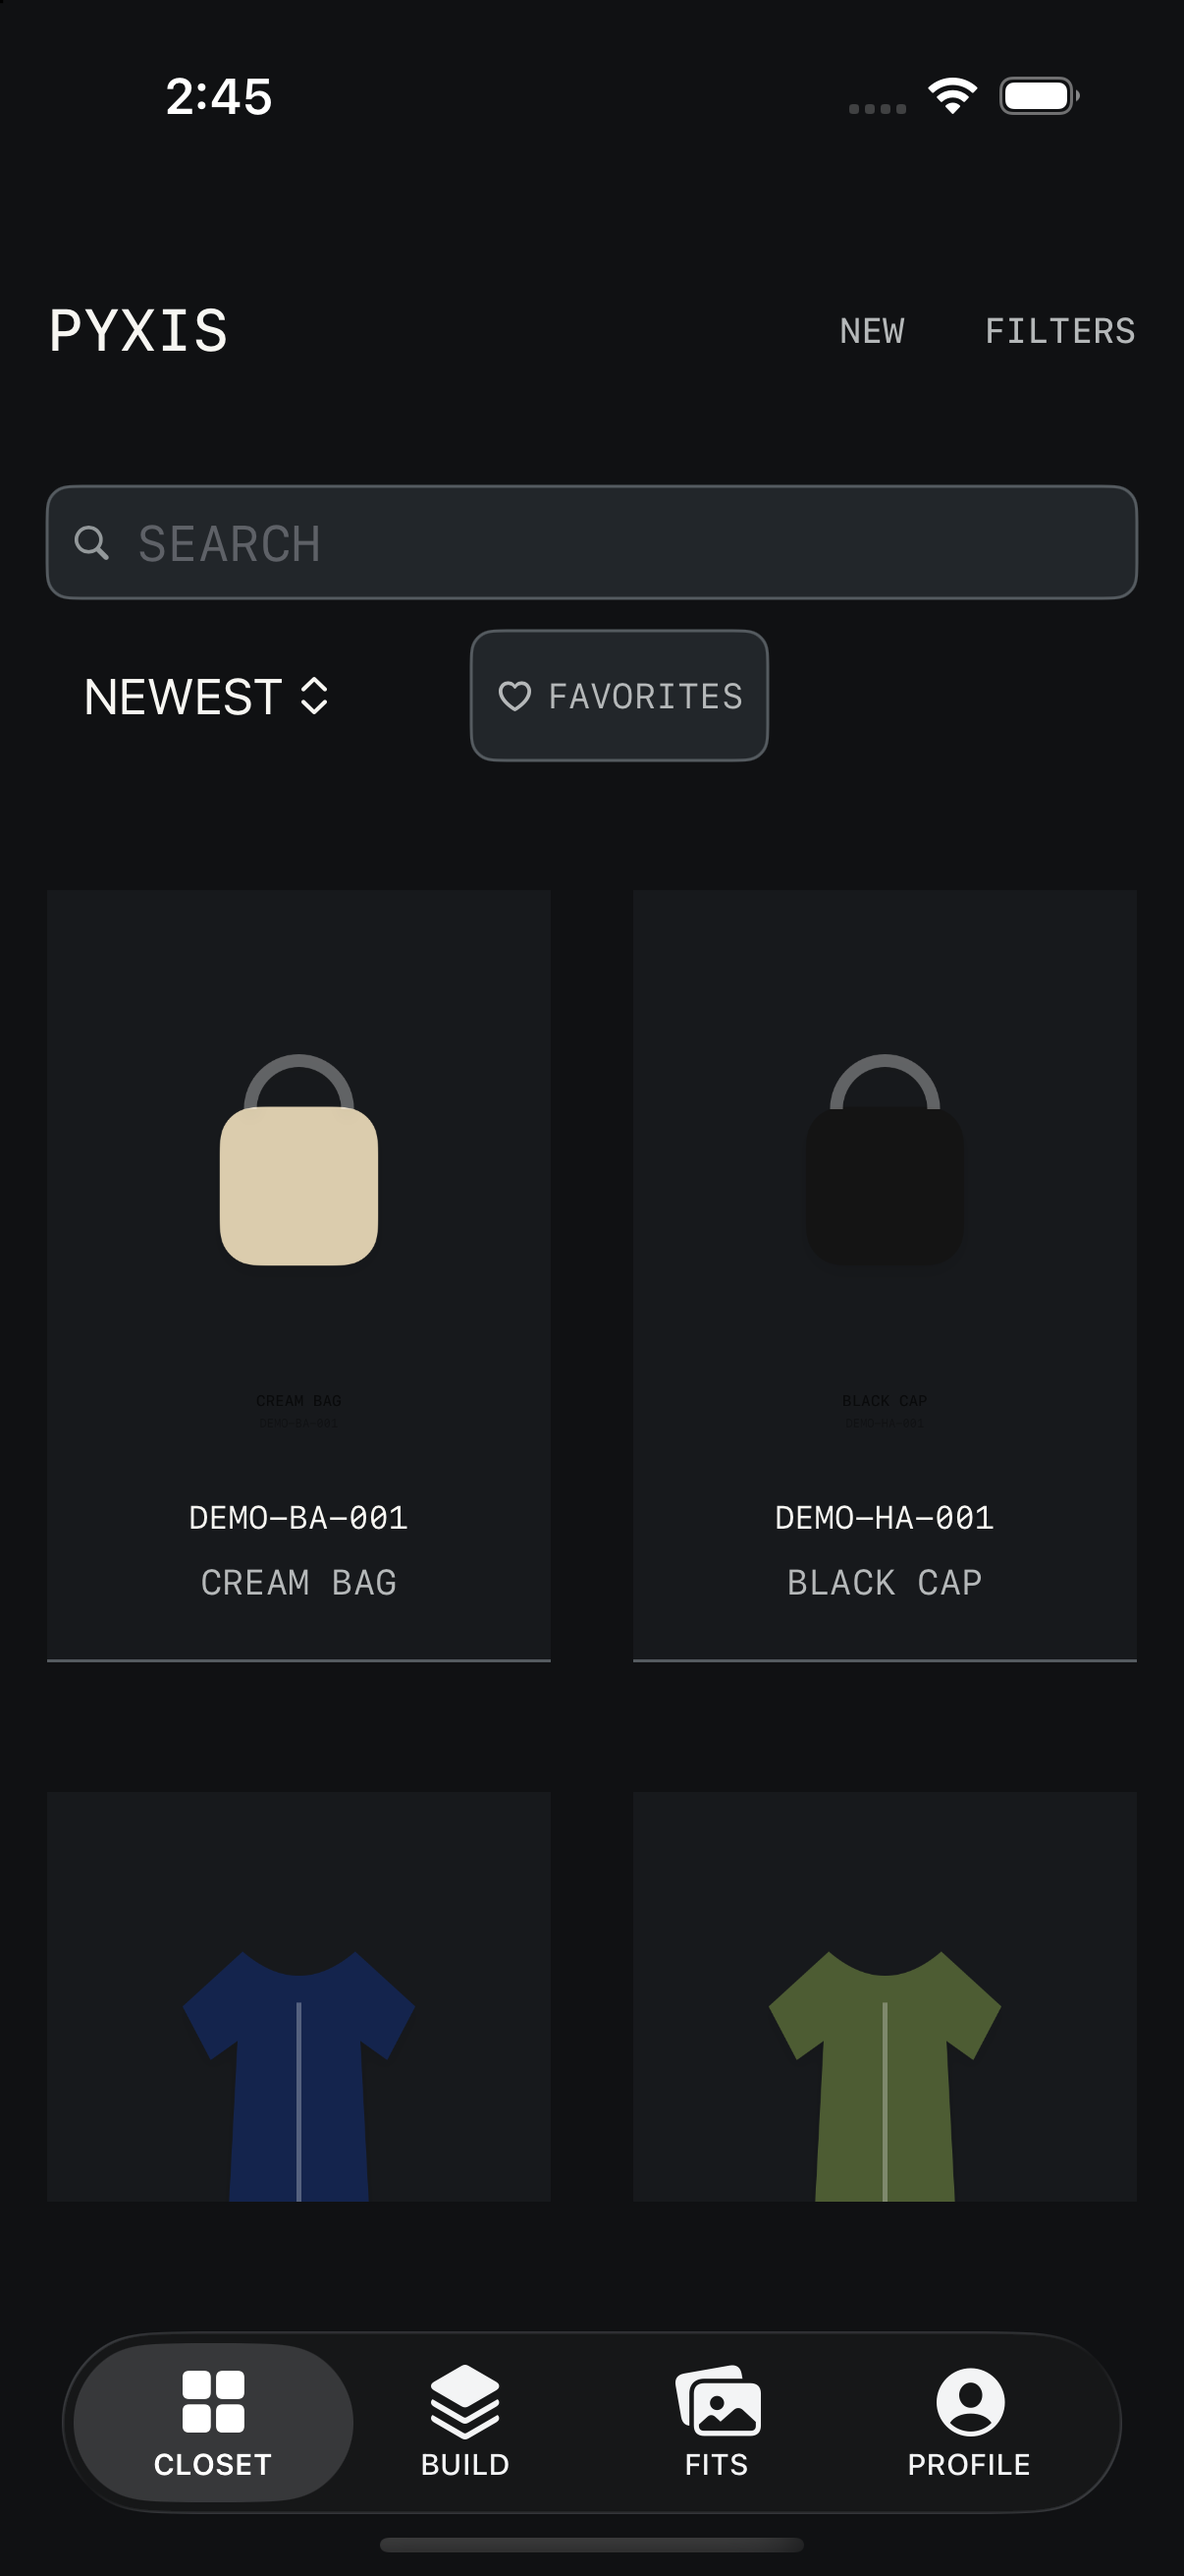
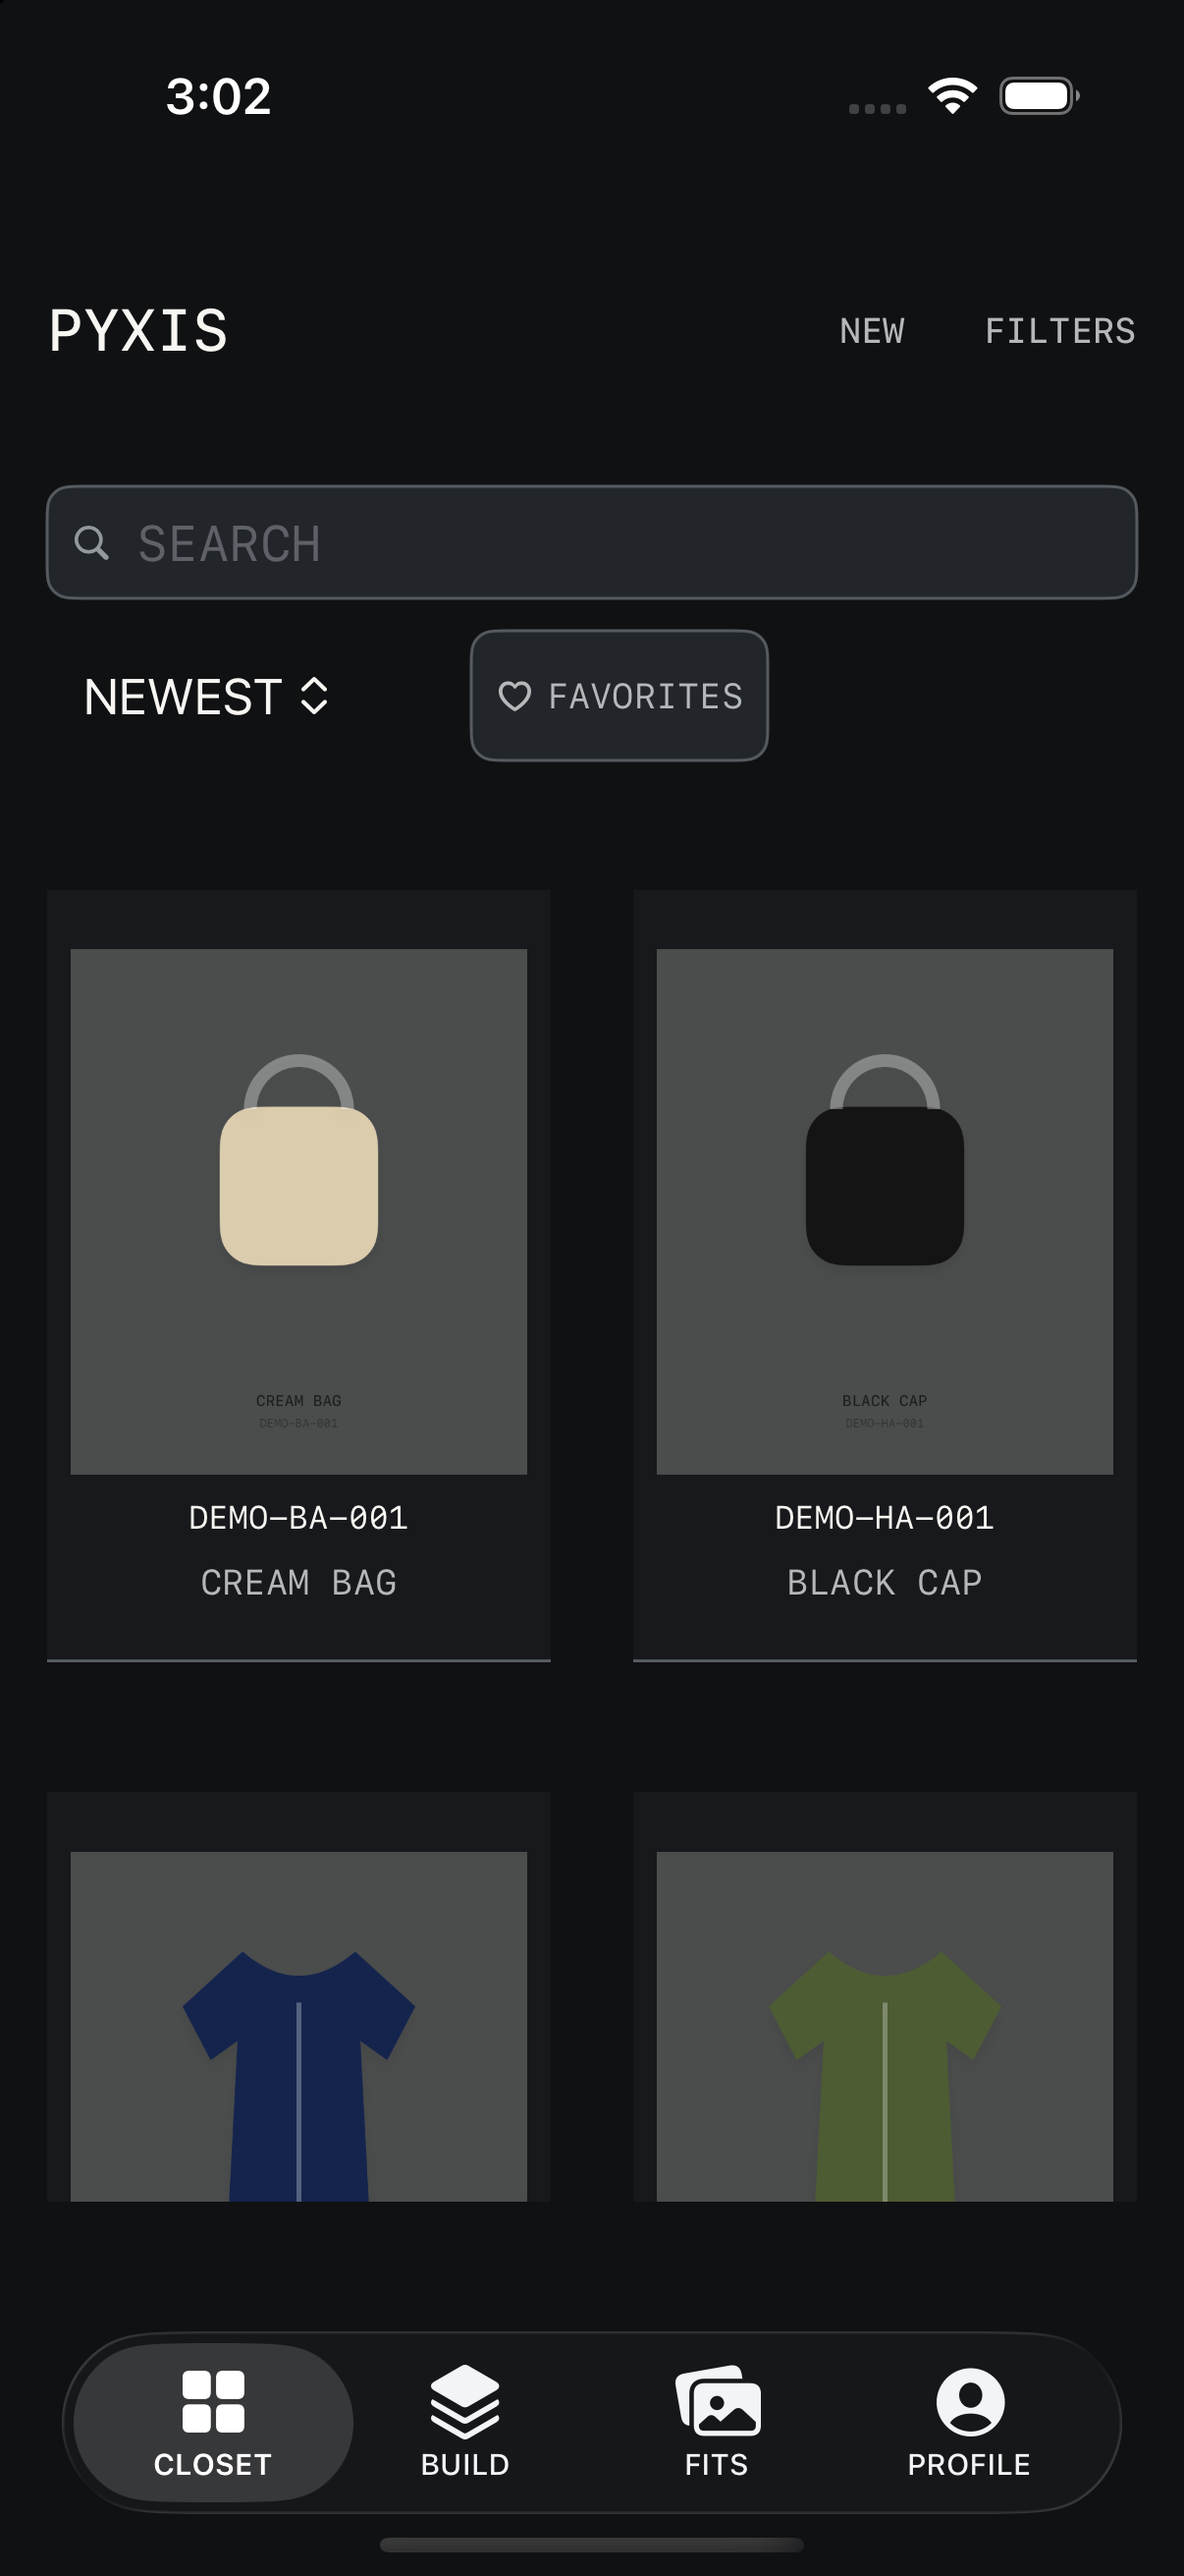
fix(theme): keep garments visible in both appearances

diff --git a/src/design-system/PyxisColors.swift b/src/design-system/PyxisColors.swift
@@ -26,6 +26,7 @@ enum PyxisColors {
     static let inactiveText = adaptive(light: 0x706B5E, dark: 0x93989A)
     static let hairline = adaptive(light: 0x948C7D, dark: 0x555B60)
     static let field = adaptive(light: 0xF7F6F0, dark: 0x22262A)
+    static let imageCanvas = adaptive(light: 0xDAD7D0, dark: 0x4B4D4D)
     static let shadow = adaptive(light: 0x000000, dark: 0x000000).opacity(0.12)
     static let error = adaptive(light: 0x8C1A14, dark: 0xFF9A8F)
 

diff --git a/src/views/OutfitBuilder/OutfitCarouselItemView.swift b/src/views/OutfitBuilder/OutfitCarouselItemView.swift
@@ -18,6 +18,7 @@ struct OutfitCarouselItemView: View {
                 LocalImageView(url: imageURL, revision: imageRevision)
                     .frame(height: 126)
                     .padding(.horizontal, PyxisSpacing.sm)
+                    .background(PyxisColors.imageCanvas, in: RoundedRectangle(cornerRadius: 8))
 
                 ItemCodeLabel(code: item.itemCode)
 

diff --git a/src/views/ClosetGrid/ClosetGridItemView.swift b/src/views/ClosetGrid/ClosetGridItemView.swift
@@ -15,6 +15,7 @@ struct ClosetGridItemView: View {
             LocalImageView(url: imageURL, revision: imageRevision)
                 .frame(height: 178)
                 .padding(.horizontal, PyxisSpacing.sm)
+                .background(PyxisColors.imageCanvas)
 
             ItemCodeLabel(code: item.itemCode)
 

diff --git a/src/views/ItemDetail/ItemDetailView.swift b/src/views/ItemDetail/ItemDetailView.swift
@@ -71,6 +71,7 @@ struct ItemDetailView: View {
             )
                 .frame(maxWidth: 330)
                 .frame(height: 420)
+                .background(PyxisColors.imageCanvas, in: RoundedRectangle(cornerRadius: 10))
 
             ItemCodeLabel(code: item.itemCode)
 

diff --git a/changes/2026-09-25-outfit-appearance.md b/changes/2026-09-25-outfit-appearance.md
@@ -9,6 +9,7 @@ summary: Add coordinated light and dark appearances across Pyxis.
 
 - Use the same minimal monospaced layout in both appearances, with warm white surfaces in light mode and charcoal surfaces in dark mode.
 - Add a System, Light, and Dark appearance control in Profile. The choice is stored on this device and does not change closet data or photos.
+- Give garment imagery a neutral display surface in Closet, item detail, and Build so black and white pieces remain visible in either appearance.
 
 ## Verification
 
